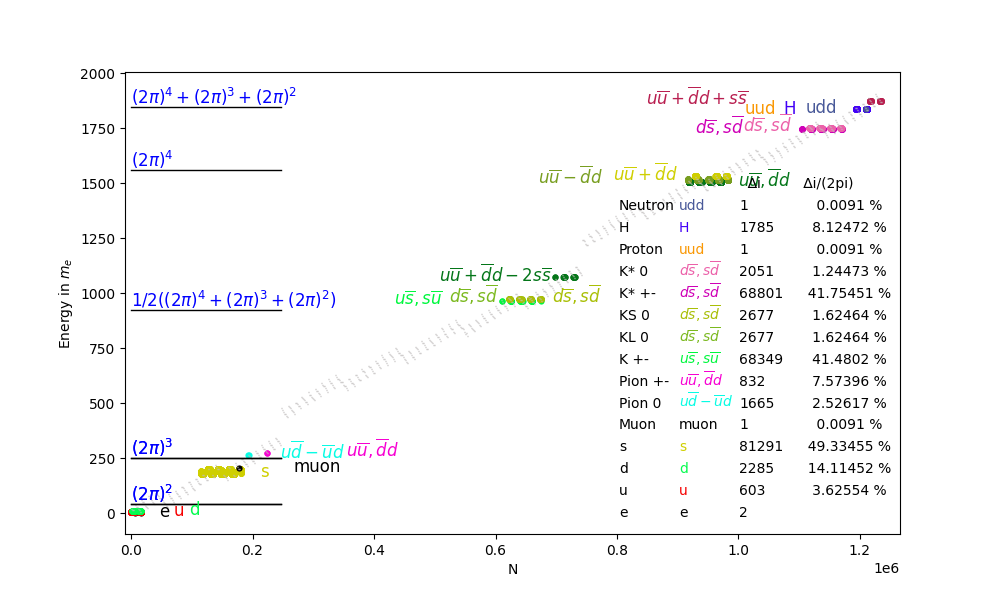
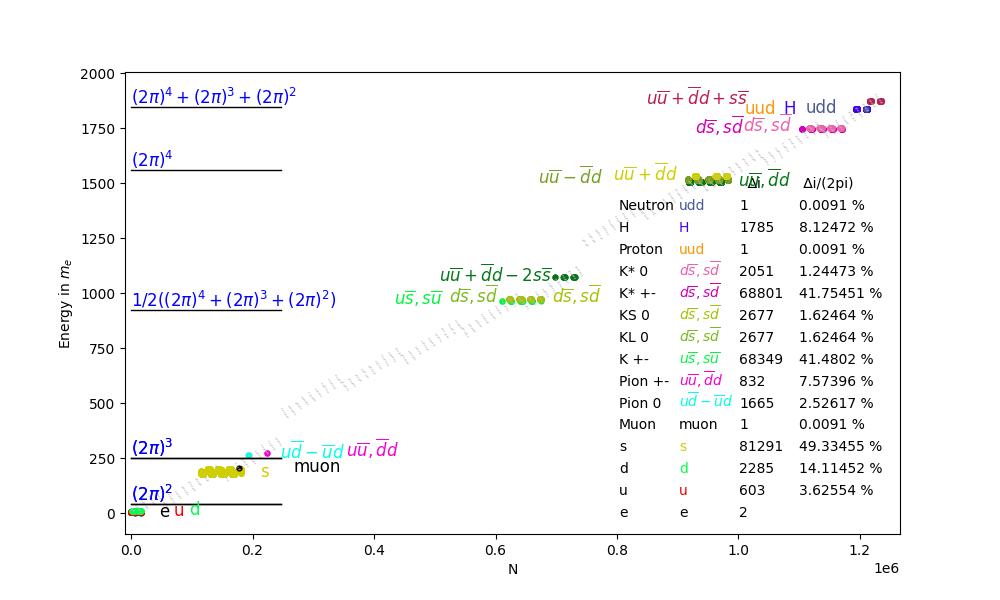
Write csv as output

Changed region(s): [[0.806, 0.33, 0.899, 0.84]]

diff --git a/src/polynome2pi/report.py b/src/polynome2pi/report.py
@@ -1,3 +1,4 @@
+import csv
 from .cli import ScanSector
 from .constants import get_colors
 
@@ -17,144 +18,73 @@ def write_report(
     Dmin,
 ):
     colors = get_colors()
-    
     labels = []
 
-    with open(file_path, "w", encoding="utf8") as f:
-        print("..............   plotting   .................")
-        # (i_T / i_T1 prints are done in main because it has those values)
+    rows = []
 
-        print(
-            "{0:10}{1:5}{2:20}{3:16}{4:8}{5:5}{6:5}{7:5}{8:5}{9:5}{10:5}{11:5}".format(
-                "particle",
-                "",
-                "",
-                "     theory: E",
-                "   total ",
-                "  i4",
-                "  i3",
-                "  i2",
-                "  i1",
-                "  i0",
-                " i-1",
-                "  C",
-            ),
-            file=f,
-        )
+    for j in range(1, 29):
+        m_min = float(Obj[j][2]) + float(Obj[j][3])
+        m_max = float(Obj[j][2]) + float(Obj[j][4])
+        p_g = len(Obj[j][2])
+        m_min = float(str(m_min)[:p_g])
+        m_max = float(str(m_max)[:p_g])
 
-        for j in range(1, 29):
-            m_min = float(Obj[j][2]) + float(Obj[j][3])
-            m_max = float(Obj[j][2]) + float(Obj[j][4])
-            p_g = len(Obj[j][2])
-            m_min = float(str(m_min)[:p_g])
-            m_max = float(str(m_max)[:p_g])
-            flag = 0
+        flag = 0
 
-            for m in range(1, 512):
-                if i_Emax[j, m] == 0:
-                    continue
-                if flag == 0:
-                    print(Obj[j][0], file=f)
-                    flag += 1
+        for m in range(1, 512):
+            if i_Emax[j, m] == 0:
+                continue
 
-                E_mean = (Emax[j, m] + Emin[j, m]) / 2
-                Di_E = i_Emax[j, m] - i_Emin[j, m] + 1
-                i_Emax[j, 0] += abs(Di_E)
-                Cnt_ = Cnt[m]
-                D_i_c = round((abs(Di_E)) * 100 / Cnt_, 5)
-                i_Emax[j, 516] += Cnt_
-                D_i_N[j] = float(i_Emax[j, 0]) * 100 / Cnt[m]
+            E_mean = (Emax[j, m] + Emin[j, m]) / 2
+            Di_E = i_Emax[j, m] - i_Emin[j, m] + 1
+            i_Emax[j, 0] += abs(Di_E)
 
-                Emax[j, m] = float(str(Emax[j, m])[:p_g])
-                Emin[j, m] = float(str(Emin[j, m])[:p_g])
-                E_mean = float(str(E_mean)[:p_g])
+            Cnt_ = Cnt[m]
+            D_i_c = round((abs(Di_E)) * 100 / Cnt_, 5)
+            i_Emax[j, 516] += Cnt_
+            D_i_N[j] = float(i_Emax[j, 0]) * 100 / Cnt[m]
 
-                print(
-                    "{0:10}{1:5}{2:20}{3:16}{4:8}{5:5}{6:5}{7:5}{8:5}{9:5}{10:5}{11:5}".format(
-                        "",
-                        "max   ",
-                        m_max,
-                        Emax[j, m],
-                        i_Emax[j, m],
-                        Dmax[j, m, 0] / 2,
-                        Dmax[j, m, 1] / 2,
-                        Dmax[j, m, 2] / 2,
-                        Dmax[j, m, 3] / 2,
-                        Dmax[j, m, 4] / 2,
-                        Dmax[j, m, 5] / 2,
-                        Dmax[j, m, 6] / 2,
-                    ),
-                    file=f,
-                )
-                print(
-                    "{0:10}{1:5}{2:20}{3:16}{4:8}{5:9}{6:7}{7:2}{8:12}{9:7}{10:2}".format(
-                        "", "mean  ", Obj[j][1], E_mean, Di_E, "", "", "", "", "", ""
-                    ),
-                    file=f,
-                )
-                print(
-                    "{0:10}{1:5}{2:20}{3:16}{4:8}{5:5}{6:5}{7:5}{8:5}{9:5}{10:5}{11:5}".format(
-                        "",
-                        "min   ",
-                        m_min,
-                        Emin[j, m],
-                        i_Emin[j, m],
-                        Dmin[j, m, 0] / 2,
-                        Dmin[j, m, 1] / 2,
-                        Dmin[j, m, 2] / 2,
-                        Dmin[j, m, 3] / 2,
-                        Dmin[j, m, 4] / 2,
-                        Dmin[j, m, 5] / 2,
-                        Dmin[j, m, 6] / 2,
-                    ),
-                    file=f,
-                )
-                print(
-                    "{0:10}{1:5}{2:20}{3:15}{4:8}{5:5}{6:8}{7:9}{8:10}{9:2}".format(
-                        "",
-                        "",
-                        "",
-                        "         ∆ abs(i)",
-                        abs(Di_E),
-                        "  Cts",
-                        Cnt_,
-                        "  ∆i/(2pi)",
-                        D_i_c,
-                        " %",
-                    ),
-                    file=f,
-                )
+            Emax_val = float(str(Emax[j, m])[:p_g])
+            Emin_val = float(str(Emin[j, m])[:p_g])
+            E_mean_val = float(str(E_mean)[:p_g])
 
-                # Restore labels in the plot
-                if flag == 1:
-                    labels.append((sector, j, i_Emin[j, m], E_mean, Obj[j][9], colors[j]))
-                    flag = 2
+            row = {
+                "particle": Obj[j][0],
+                "particle_symbol": Obj[j][9],
+                "theory_E": Obj[j][2],
+                "E_min": Emin_val,
+                "E_mean": E_mean_val,
+                "E_max": Emax_val,
+                "delta_i": Di_E,
+                "counts": Cnt_,
+                "delta_i_percent": D_i_c,
+                "i4": Dmax[j, m, 0] / 2,
+                "i3": Dmax[j, m, 1] / 2,
+                "i2": Dmax[j, m, 2] / 2,
+                "i1": Dmax[j, m, 3] / 2,
+                "i0": Dmax[j, m, 4] / 2,
+                "i_minus_1": Dmax[j, m, 5] / 2,
+                "C": Dmax[j, m, 6] / 2,
+            }
 
-            if j > 1 and m == 511 and i_Emax[j, 516] > 0:
-                D_i_c = round(float(i_Emax[j, 0]) * 100 / i_Emax[j, 516], 5)
-                D = str(D_i_c)
-                D_i_c_[j] = "".rjust(10 - len(D), " ") + D + " %"
-                print(
-                    "{0:10}{1:5}{2:20}{3:15}{4:8}{5:5}{6:8}{7:9}{8:10}{9:2}".format(
-                        "",
-                        "total",
-                        "",
-                        "             Σ ∆i",
-                        i_Emax[j, 0],
-                        "  Cts",
-                        i_Emax[j, 516],
-                        "  ∆i/(2pi)",
-                        D_i_c,
-                        " %",
-                    ),
-                    file=f,
-                )
+            rows.append(row)
 
+            # restore plot labels (unchanged behavior)
             if flag == 0:
-                print(
-                    "{0:10}{1:5}{2:20}{3:16}{4:8}".format(
-                        Obj[j][0], "mean  ", Obj[j][1], "  ", " only with i4 > 1"
-                    ),
-                    file=f,
+                labels.append(
+                    (sector, j, i_Emin[j, m], E_mean_val, Obj[j][9], colors[j])
                 )
+                flag = 1
+
+        if j > 1 and i_Emax[j, 516] > 0:
+            D_i_c_tot = round(float(i_Emax[j, 0]) * 100 / i_Emax[j, 516], 5)
+            D_i_c_[j] = f"{D_i_c_tot} %"
+
+    # ---- write CSV ----
+    if rows:
+        with open(file_path, "w", newline="", encoding="utf-8") as f:
+            writer = csv.DictWriter(f, fieldnames=rows[0].keys())
+            writer.writeheader()
+            writer.writerows(rows)
+
     return labels

diff --git a/src/polynome2pi/main.py b/src/polynome2pi/main.py
@@ -56,7 +56,7 @@ def main(argv=None):
     # report + particle labels
     print("possible ET:", i_T, "real ET:", i_T1)
     labels = write_report(
-        file_path = RESULTS_DIR / f"{config.name}.txt",
+        file_path = RESULTS_DIR / f"{config.name}.csv",
         sector=sector,
         Obj=Obj,
         D_i_N=D_i_N,
